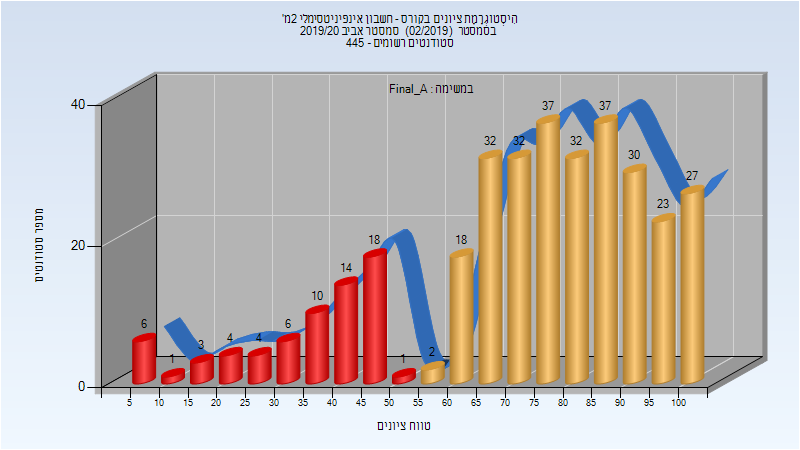
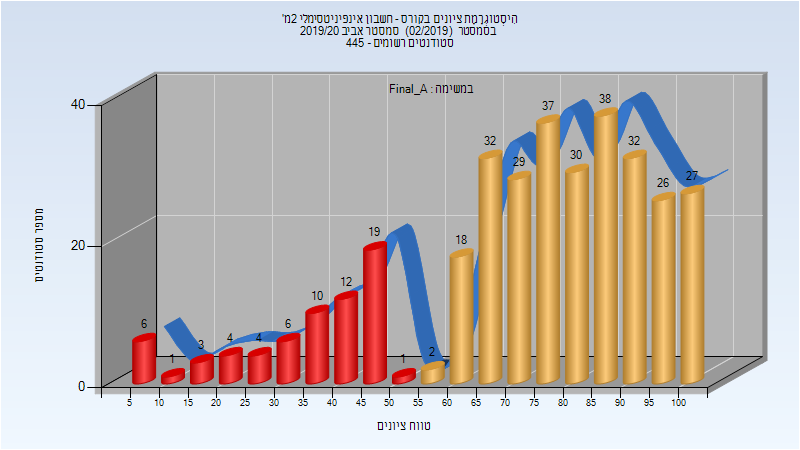
Deploy michael-maltsev/technion-histograms to github.com/michael-maltsev/technion-histograms.git:gh-pages

Changed region(s): [[0.625, 0.1867, 0.9062, 0.4978], [0.4062, 0.4978, 0.5312, 0.6844]]

diff --git a/104032/index.html b/104032/index.html
@@ -1060,12 +1060,12 @@
 <tbody>
 <tr>
 <td>337</td>
-<td>205/132</td>
+<td>206/131</td>
 <td>61</td>
 <td>0</td>
 <td>100</td>
-<td>59.926</td>
-<td>61</td>
+<td>60.347</td>
+<td>62</td>
 </tr>
 </tbody>
 </table>
@@ -1086,12 +1086,12 @@
 <tbody>
 <tr>
 <td>337</td>
-<td>270/67</td>
+<td>271/66</td>
 <td>80</td>
 <td>9</td>
 <td>100</td>
-<td>72.576</td>
-<td>77</td>
+<td>72.944</td>
+<td>78</td>
 </tr>
 </tbody>
 </table>

diff --git a/104032/README.md b/104032/README.md
@@ -333,7 +333,7 @@
 
 | סטודנטים | עברו/נכשלו | אחוז עוברים | ציון מינימלי | ציון מקסימלי | ממוצע | חציון |
 | ---- | ---- | ---- | ---- | ---- | ---- | ---- |
-| 337 | 205/132 | 61 | 0 | 100 | 59.926 | 61 |
+| 337 | 206/131 | 61 | 0 | 100 | 60.347 | 62 |
 
 ### סופי מועד א'
 
@@ -341,5 +341,5 @@
 
 | סטודנטים | עברו/נכשלו | אחוז עוברים | ציון מינימלי | ציון מקסימלי | ממוצע | חציון |
 | ---- | ---- | ---- | ---- | ---- | ---- | ---- |
-| 337 | 270/67 | 80 | 9 | 100 | 72.576 | 77 |
+| 337 | 271/66 | 80 | 9 | 100 | 72.944 | 78 |
 
